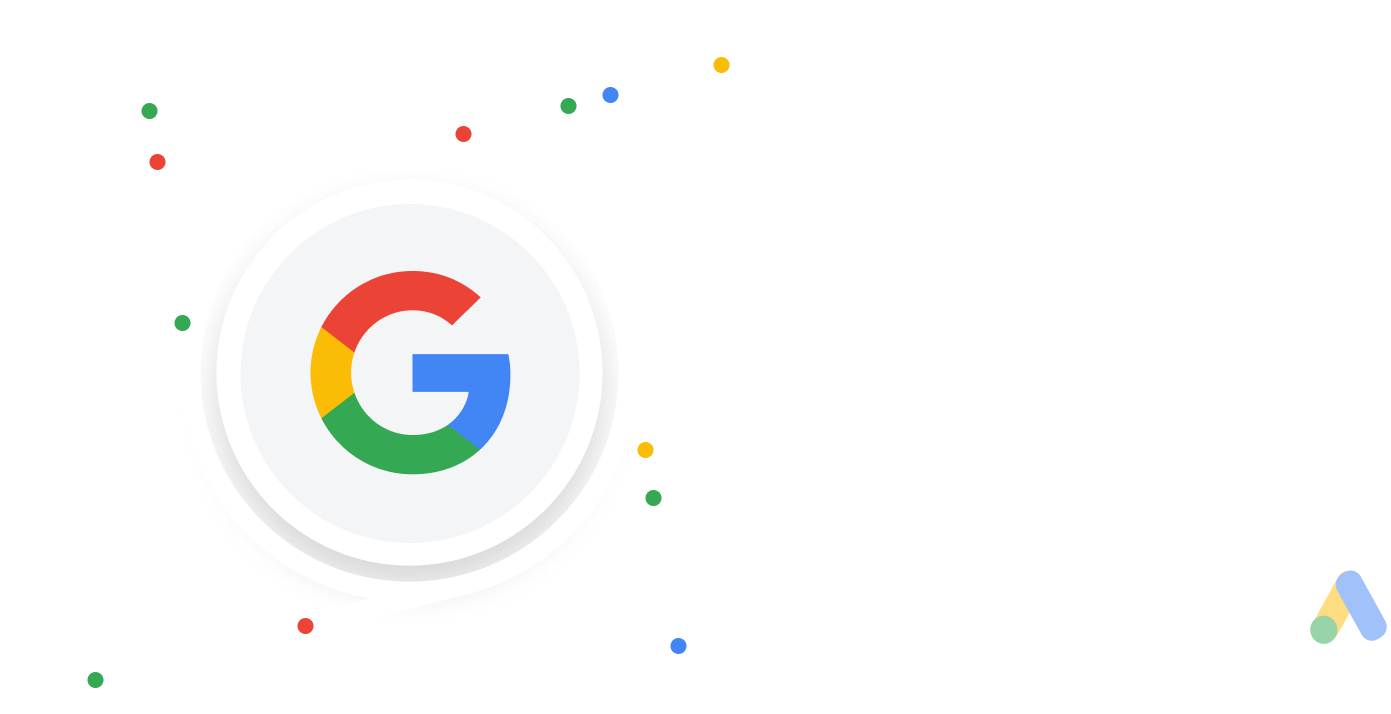
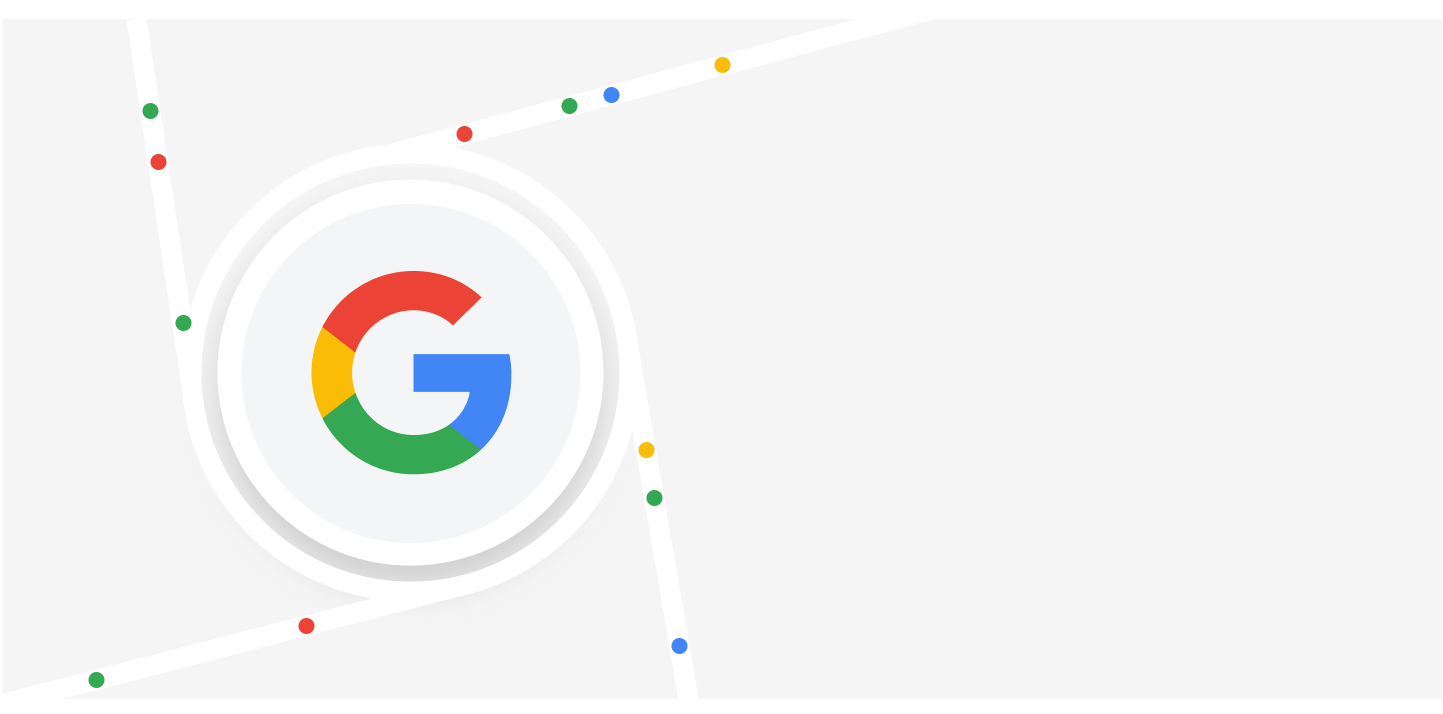
growthcomplete

diff --git a/css/style.css b/css/style.css
@@ -1312,17 +1312,16 @@ ul.ab-form-list{
   .growthhero{
 	background: url('../assests/seotools.png');
   }
-  /* .grlead{
+  .grleads{
 	background-image: url(../assests/leads.png);
-  } */
+  }
 
   .bgproperty{
 	background-position: center;
-	background-repeat: no-repeat;
-	background-size: cover;
-	background-size:100%;
-	background-color: #F5F5F5;
-   width: 100%;
+	 background-repeat: no-repeat;
+	/*background-size: cover;
+	background-size:100% 100%;*/
+	background-color: #F5F5F5; 
   }
 
 
@@ -1334,6 +1333,13 @@ ul.ab-form-list{
 	.navactions ul li{
 		display: none;
 	}
+	
+}
+
+@media screen and (max-width: 768px){
+	.grleads{
+		background-image:none;
+	  }
 }
 @media (max-width: 550px) {
 	/* .pricecardtitle,.question{

diff --git a/growth.html b/growth.html
@@ -108,10 +108,10 @@
             </div>
         </div>
 
-        <div class="container-fluid mt-5 mb-3  bgproperty">
+        <div class="container-fluid mt-5 py-sm-5 mb-3 grleads bgproperty">
             <div class="container py-2">
                 <div class="row my-4 justify-content-end align-items-center">
-                    <div class="col-sm-6 order-2 order-sm-0 wow animate__animated animate__fadeInUp">
+                    <div class="col-sm-6 d-block d-sm-none order-2 order-sm-0 wow animate__animated animate__fadeInUp">
                         <img class="w-100" src="assests/googleleads.png" alt="">
                     </div>
                     <div class="col-sm-6 col-12 my-3">
